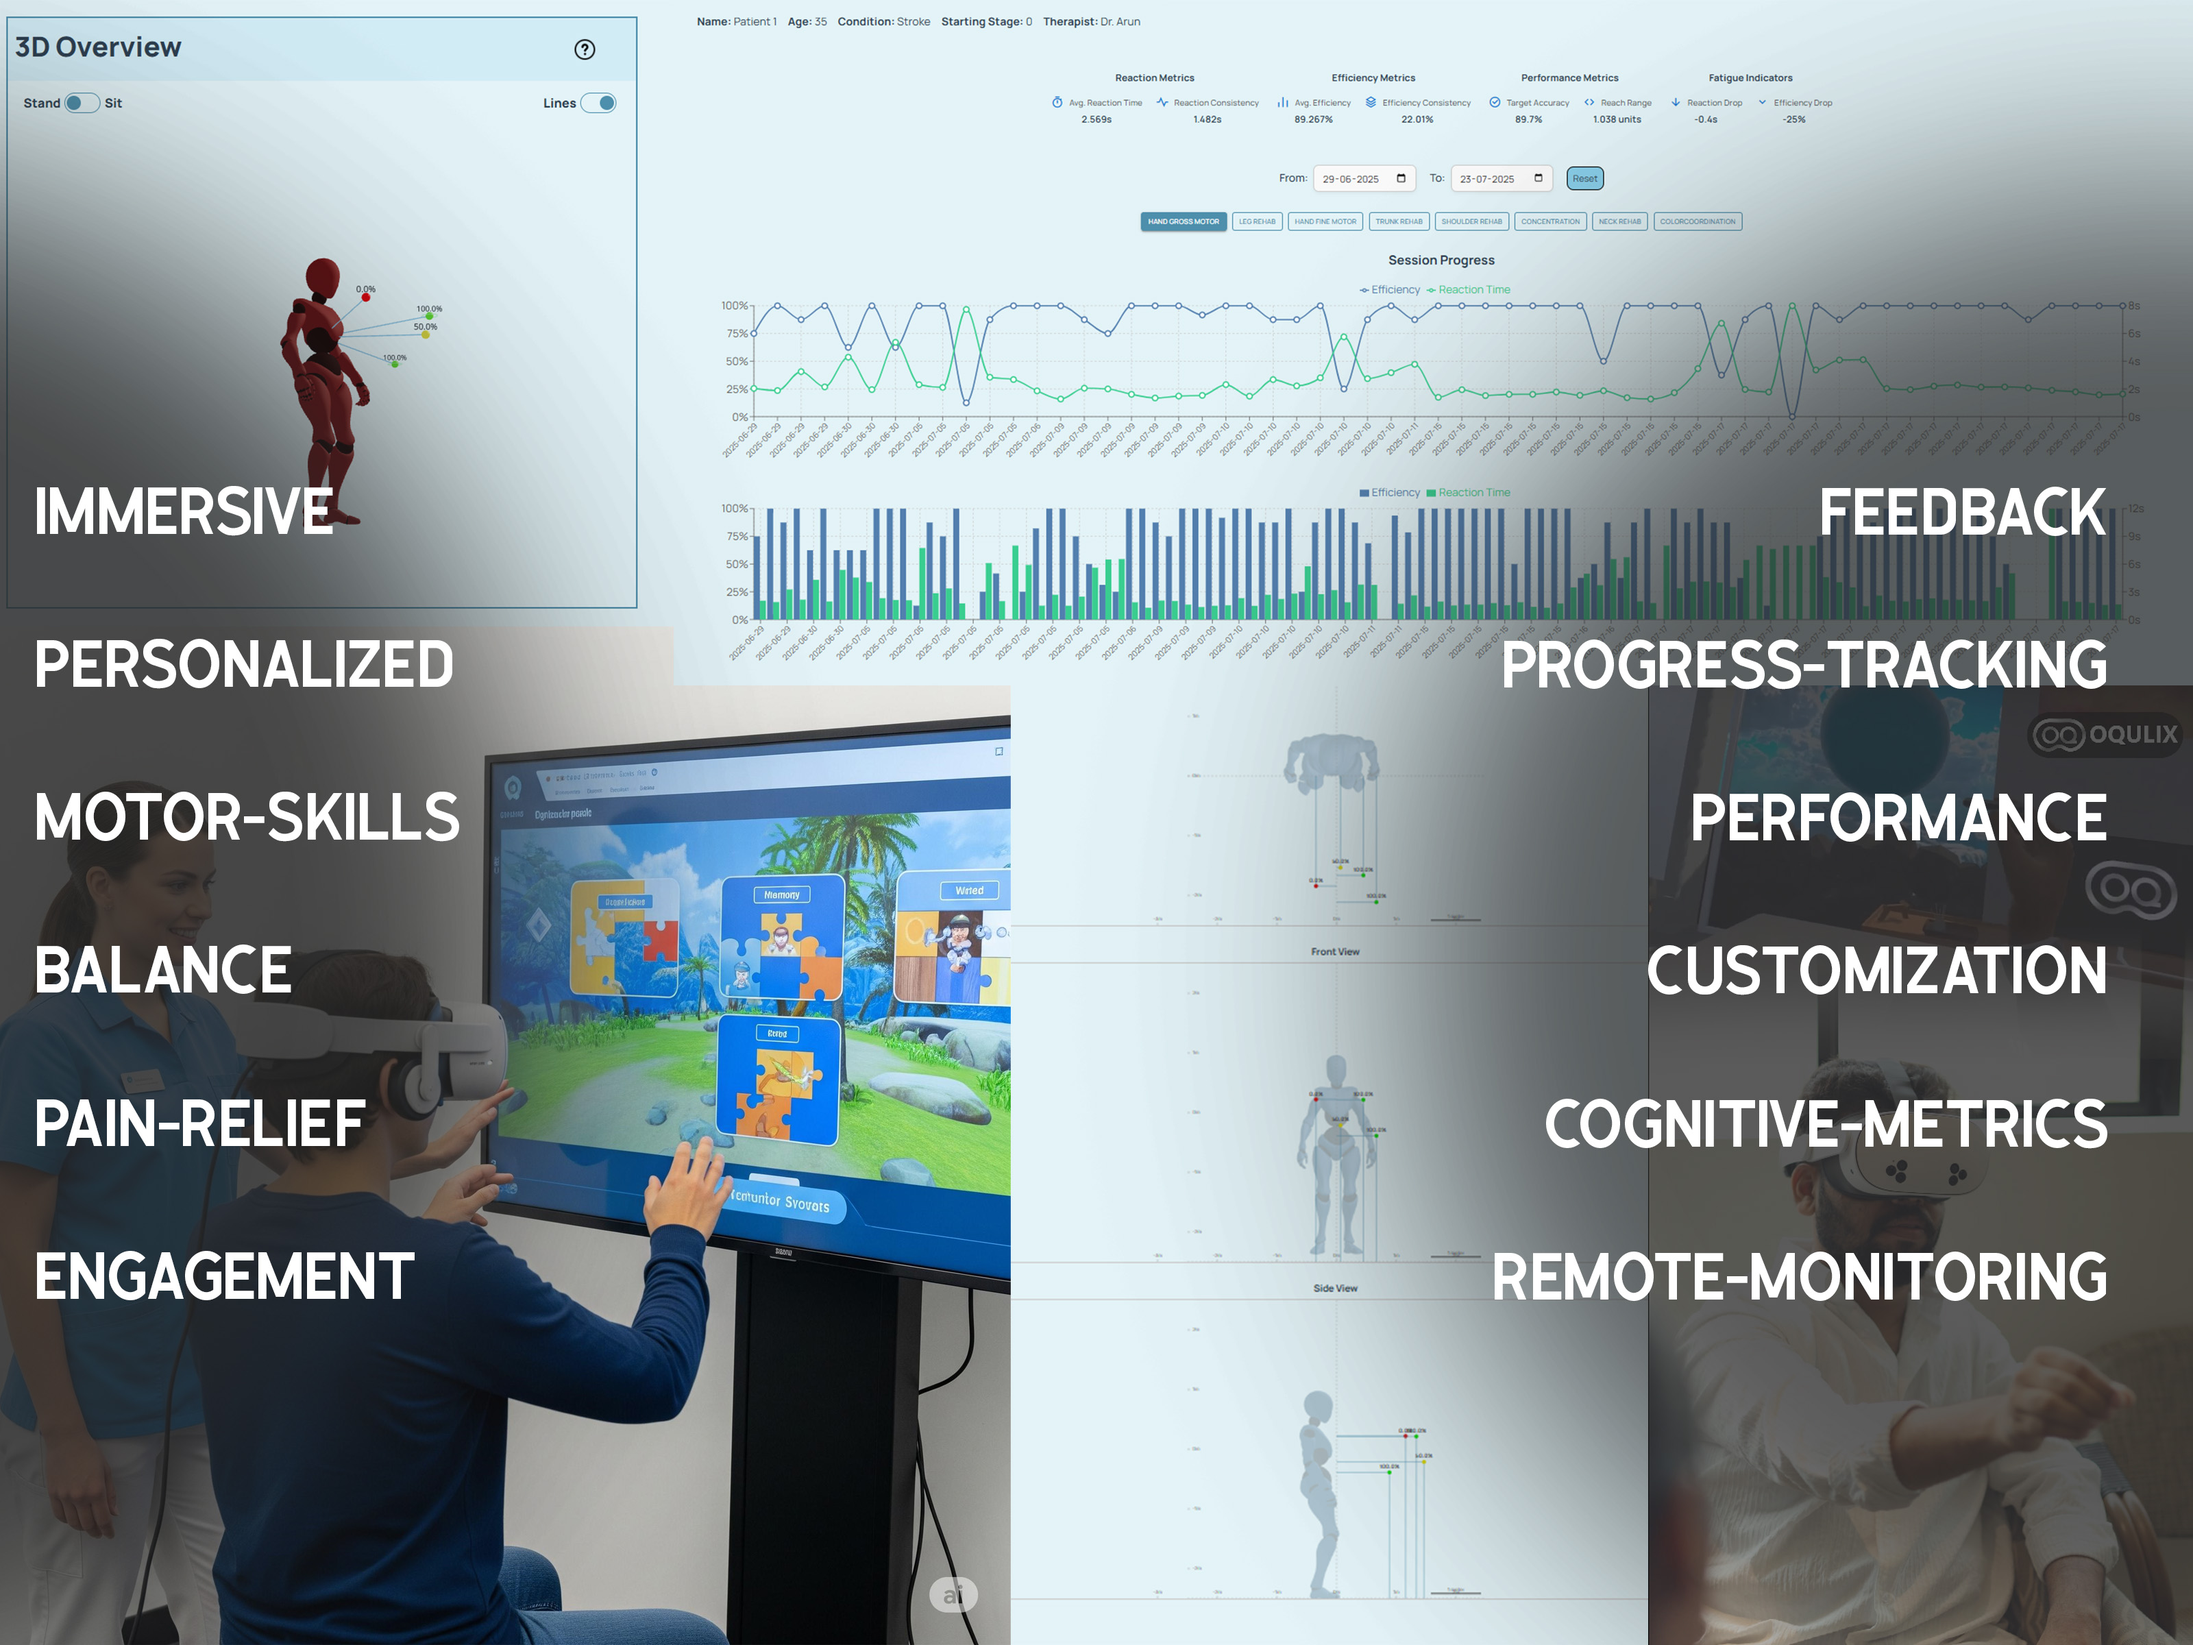
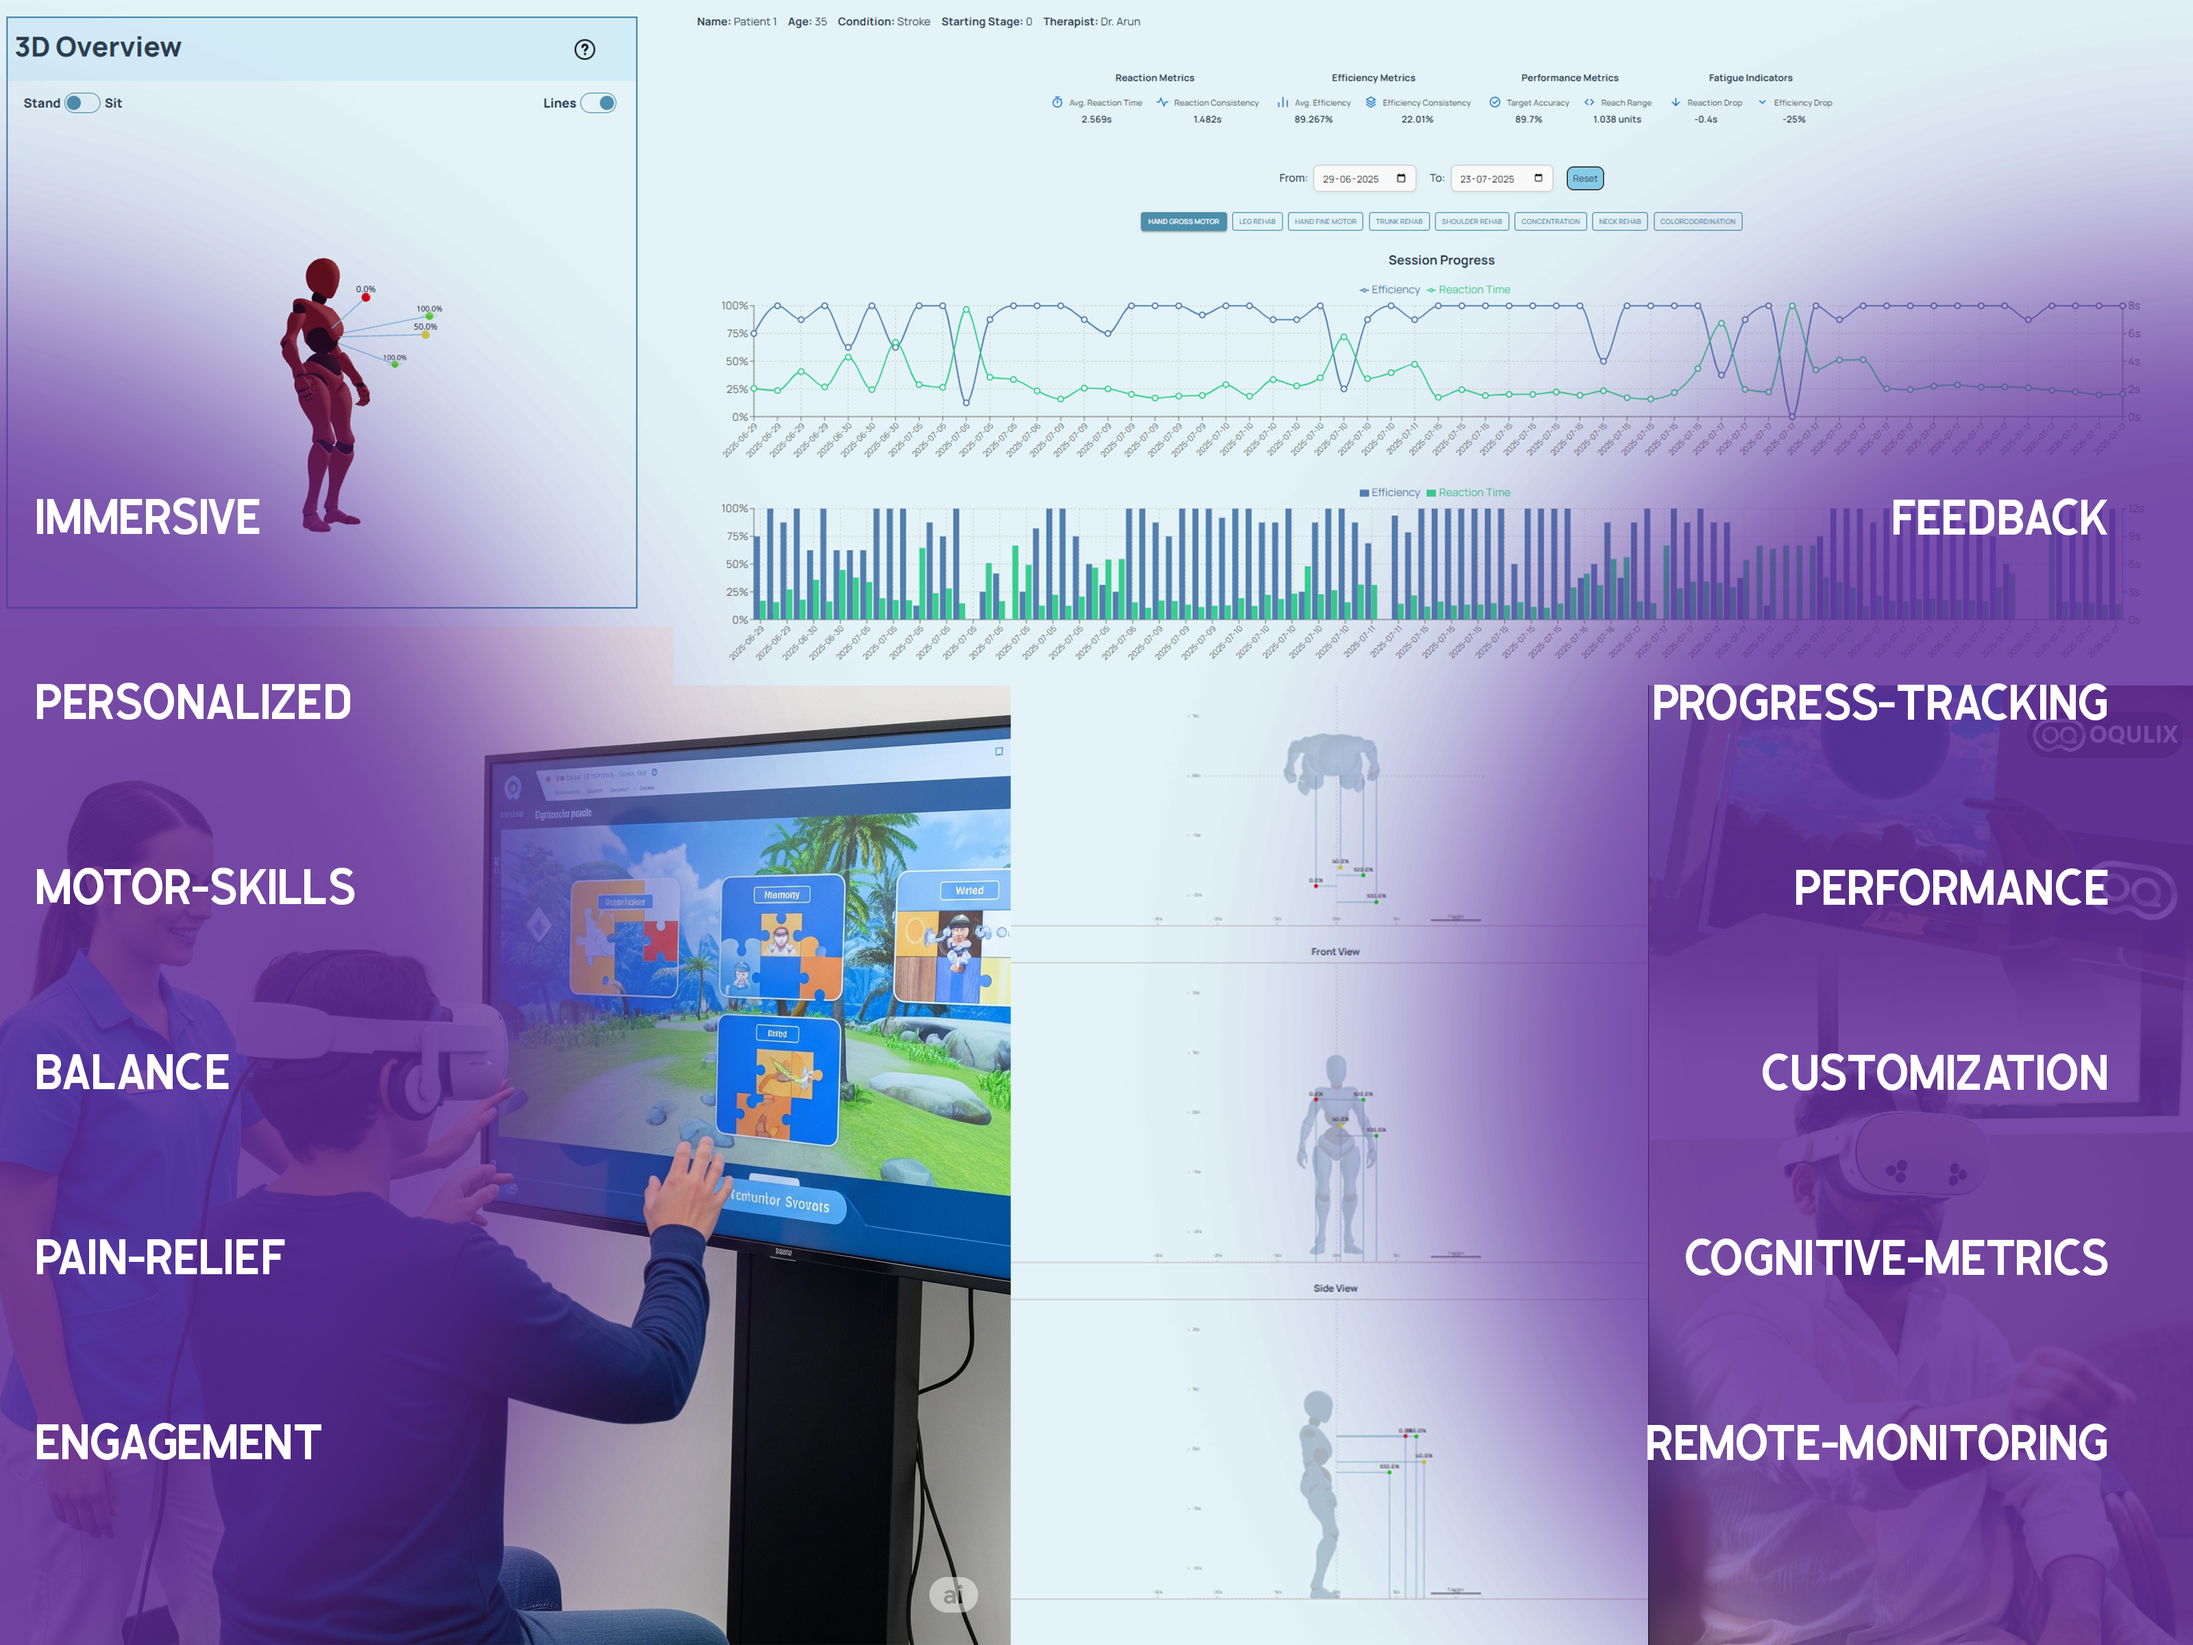
new hero img

diff --git a/boost.css b/boost.css
@@ -225,7 +225,7 @@ nav div{
     /* box-shadow: 0px -80px 200px 10px #602A9A; */
     animation: shadows 15s infinite;
     width: 1200px;
-    filter: brightness(0.7);
+    /* filter: brightness(0.7); */
 }
 
 .companytext{
